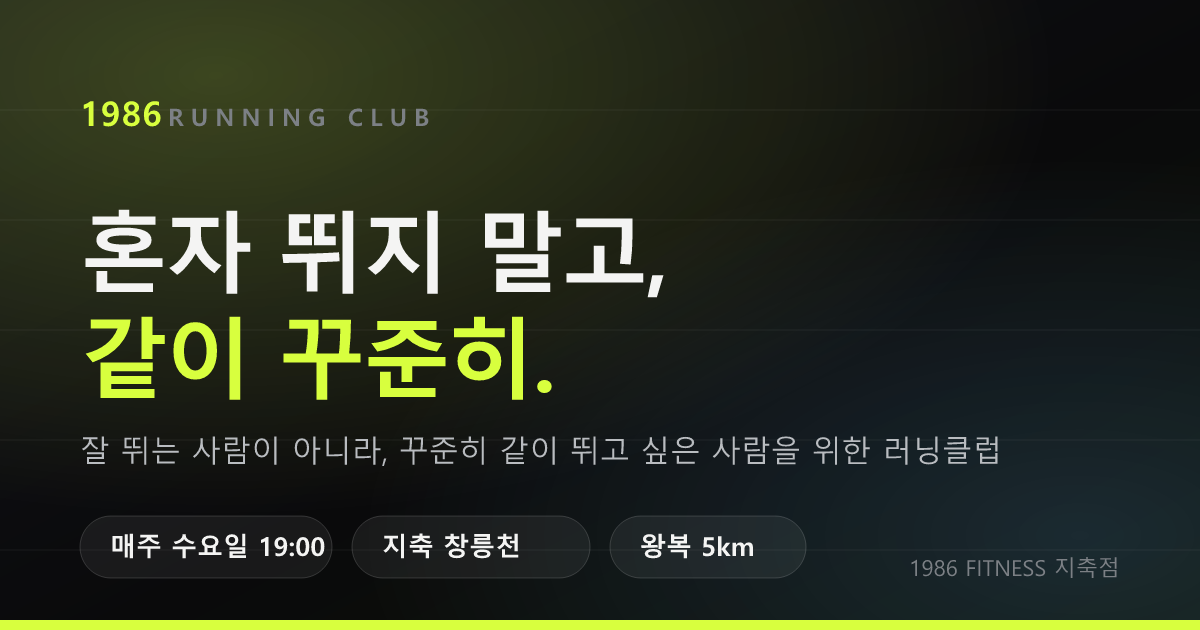
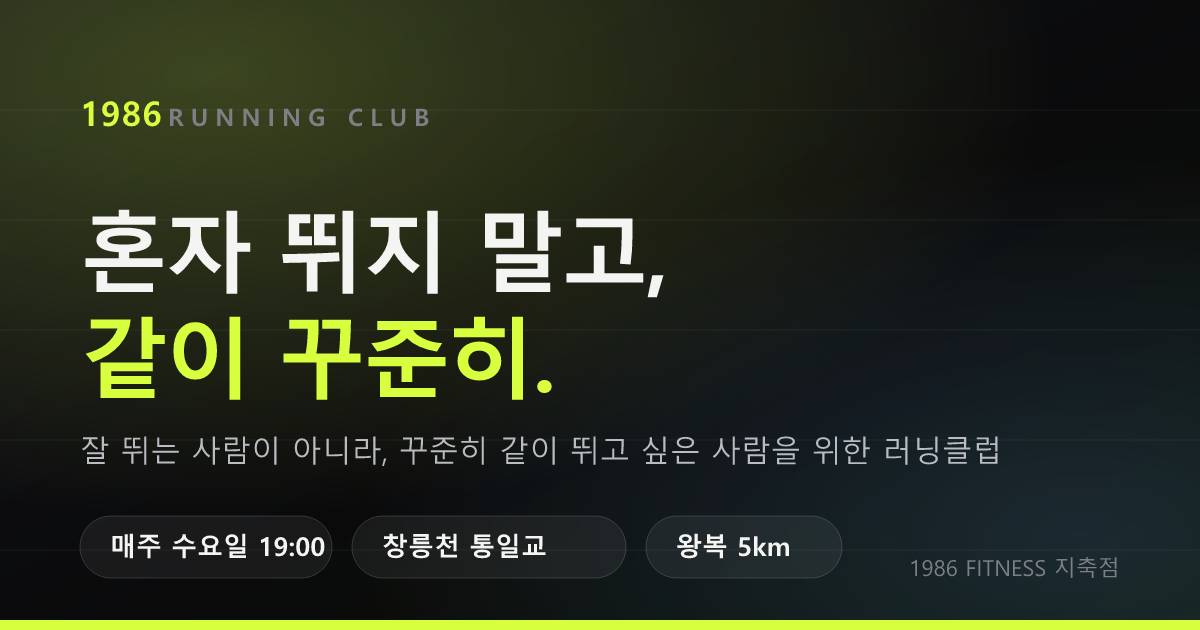
집결 장소 확정(창릉천 통일교)과 오픈채팅 링크 연결
- 찾아오는 길 섹션 추가: 지축역·통일로·창릉천·통일교를 그린 안내도(SVG)
  도보 경로와 러닝 코스 방향, 집결 정보 표 포함
- 카카오톡 오픈채팅 링크 연결 — 사이트 전 버튼에 반영
- 장소 표기를 창릉천 통일교 앞으로 통일 (히어로·FAQ·푸터·JSON-LD·OG)
- 내비게이션에 찾아오는 길 추가
- 운영 가이드: 오픈채팅 개설 완료 표시, 공지 템플릿에 집결 장소 반영

Changed region(s): [[0.3083, 0.8444, 0.4625, 0.9048], [0.5242, 0.8444, 0.6783, 0.9048]]

diff --git a/public/index.html b/public/index.html
@@ -4,19 +4,19 @@
 <meta charset="utf-8">
 <meta name="viewport" content="width=device-width, initial-scale=1, viewport-fit=cover">
 <title>1986 RUNNING CLUB · 혼자 뛰지 말고, 같이 꾸준히</title>
-<meta name="description" content="매주 수요일 저녁 7시, 지축 창릉천에서 함께 달리는 러닝 커뮤니티. 기록 경쟁 없이 걷뛰도 환영합니다. 1986 FITNESS 지축점 운영.">
+<meta name="description" content="매주 수요일 저녁 7시, 창릉천 통일교 앞에서 함께 달리는 러닝 커뮤니티. 기록 경쟁 없이 걷뛰도 환영합니다. 1986 FITNESS 지축점 운영.">
 <meta name="theme-color" content="#0a0a0b">
 <link rel="canonical" href="https://running-club-1986.pcbpcb1990.workers.dev/">
 <meta property="og:type" content="website">
 <meta property="og:site_name" content="1986 RUNNING CLUB">
 <meta property="og:title" content="1986 RUNNING CLUB · 혼자 뛰지 말고, 같이 꾸준히">
-<meta property="og:description" content="매주 수요일 19:00, 지축 창릉천에서 함께 달립니다. 걷뛰 가능 · 기록 경쟁 없음 · 전 연령 참여.">
+<meta property="og:description" content="매주 수요일 19:00, 창릉천 통일교 앞에서 함께 달립니다. 걷뛰 가능 · 기록 경쟁 없음 · 전 연령 참여.">
 <meta property="og:locale" content="ko_KR">
 <meta property="og:url" content="https://running-club-1986.pcbpcb1990.workers.dev/">
 <meta property="og:image" content="https://running-club-1986.pcbpcb1990.workers.dev/assets/og.png">
 <meta property="og:image:width" content="1200">
 <meta property="og:image:height" content="630">
-<meta property="og:image:alt" content="1986 RUNNING CLUB — 혼자 뛰지 말고, 같이 꾸준히. 매주 수요일 19:00 지축 창릉천">
+<meta property="og:image:alt" content="1986 RUNNING CLUB — 혼자 뛰지 말고, 같이 꾸준히. 매주 수요일 19:00 창릉천 통일교">
 <meta name="twitter:card" content="summary_large_image">
 <link rel="icon" href="/assets/favicon.svg" type="image/svg+xml">
 <link rel="preconnect" href="https://cdn.jsdelivr.net" crossorigin>
@@ -25,7 +25,7 @@
 <script>
 /* ── 링크 설정: 실제 주소가 생기면 이 부분만 바꾸면 사이트 전체에 반영됩니다 ── */
 window.SITE = {
-  kakaoOpenChat: "",                 // 예: "https://open.kakao.com/o/xxxxxxx"
+  kakaoOpenChat: "https://open.kakao.com/o/pxirsJLi",   // 오픈채팅방
   joinForm:      "",                 // 가입 신청 구글폼 주소
   missionForm:   "",                 // 러닝 인증 제출 구글폼 주소
   instagram:     "",                 // 예: "https://instagram.com/1986fitness"
@@ -41,7 +41,7 @@ window.SITE = {
       "@type": "SportsClub",
       "@id": "https://running-club-1986.pcbpcb1990.workers.dev/#club",
       "name": "1986 RUNNING CLUB",
-      "description": "1986 FITNESS 지축점이 운영하는 지축 지역 러닝 커뮤니티. 매주 수요일 19:00 창릉천에서 함께 달립니다. 기록 경쟁 없이 걷뛰도 환영합니다.",
+      "description": "1986 FITNESS 지축점이 운영하는 지축 지역 러닝 커뮤니티. 매주 수요일 19:00 창릉천 통일교 앞에서 함께 달립니다. 기록 경쟁 없이 걷뛰도 환영합니다.",
       "url": "https://running-club-1986.pcbpcb1990.workers.dev/",
       "image": "https://running-club-1986.pcbpcb1990.workers.dev/assets/og.png",
       "sport": "러닝",
@@ -82,7 +82,7 @@ window.SITE = {
       "organizer": { "@id": "https://running-club-1986.pcbpcb1990.workers.dev/#club" },
       "location": {
         "@type": "Place",
-        "name": "지축역 인근 창릉천",
+        "name": "창릉천 통일교 (지축역 인근)",
         "address": {
           "@type": "PostalAddress",
           "addressLocality": "고양시 덕양구",
@@ -115,6 +115,7 @@ window.SITE = {
     </a>
     <nav class="nav__links" aria-label="주요 메뉴">
       <a href="#weekly">수요일 러닝</a>
+      <a href="#location">찾아오는 길</a>
       <a href="#groups">페이스 그룹</a>
       <a href="#mission">러닝 미션</a>
       <a href="#board">러닝 보드</a>
@@ -127,6 +128,7 @@ window.SITE = {
   </div>
   <div class="mobile" id="mobileMenu" hidden>
     <a href="#weekly">수요일 러닝</a>
+    <a href="#location">찾아오는 길</a>
     <a href="#groups">페이스 그룹</a>
     <a href="#timeline">한 시간 흐름</a>
     <a href="#mission">러닝 미션</a>
@@ -158,7 +160,7 @@ window.SITE = {
     <div class="hero__meta reveal">
       <div class="meta"><span class="meta__k">매주</span><span class="meta__v">수요일</span></div>
       <div class="meta"><span class="meta__k">시간</span><span class="meta__v">19:00–20:00</span></div>
-      <div class="meta"><span class="meta__k">장소</span><span class="meta__v">지축역 인근 창릉천</span></div>
+      <div class="meta"><span class="meta__k">장소</span><span class="meta__v">창릉천 통일교</span></div>
       <div class="meta"><span class="meta__k">코스</span><span class="meta__v">왕복 약 5km</span></div>
     </div>
 
@@ -212,7 +214,7 @@ window.SITE = {
     <h2 class="h2 reveal">수요일 7시 = 창릉천</h2>
     <p class="lead reveal">
       매주 장소를 바꾸지 않습니다. 헬스장에 모였다가 이동하지도 않습니다.
-      창릉천 같은 자리에서 바로 만나, 습관이 되도록 합니다.
+      창릉천 통일교 앞 같은 자리에서 바로 만나, 습관이 되도록 합니다.
     </p>
 
     <div class="cards reveal">
@@ -223,7 +225,7 @@ window.SITE = {
       </article>
       <article class="card">
         <span class="card__ico" aria-hidden="true">📍</span>
-        <h3>지축역 인근 창릉천</h3>
+        <h3>창릉천 통일교 앞</h3>
         <p>매주 동일한 출발 지점에서 집결합니다. 1986 FITNESS 지축점은 운영 주체이자 브랜드 베이스입니다.</p>
         <a class="card__link js-map" href="#join" hidden>집결 장소 지도 보기 →</a>
       </article>
@@ -247,6 +249,154 @@ window.SITE = {
         <span>“상체 힘 빼고 편하게 가세요.”</span>
         <span>“호흡 괜찮으세요?”</span>
       </div>
+    </div>
+  </div>
+</section>
+
+<!-- ══ 찾아오는 길 ══ -->
+<section class="sec sec--map" id="location">
+  <div class="wrap">
+    <p class="kicker reveal">MEETING POINT</p>
+    <h2 class="h2 reveal">창릉천 통일교 앞에서 만납니다</h2>
+    <p class="lead reveal">
+      지축역에서 창릉천 방향으로 내려오면 통일로가 하천을 건너는 다리, 통일교가 나옵니다.
+      매주 같은 자리입니다. 헬스장에 모였다가 이동하지 않습니다.
+    </p>
+
+    <figure class="map reveal">
+      <svg class="map__svg" viewBox="0 0 800 470" role="img" aria-labelledby="mapTitle mapDesc">
+        <title id="mapTitle">1986 RUNNING CLUB 집결 장소 안내도</title>
+        <desc id="mapDesc">지축역에서 남서쪽으로 도보 약 7분, 통일로가 창릉천을 건너는 통일교 앞이 집결 지점입니다. 러닝 코스는 창릉천을 따라 왕복 약 5km입니다.</desc>
+
+        <defs>
+          <linearGradient id="water" x1="0" y1="0" x2="1" y2="1">
+            <stop offset="0%" stop-color="#1d3a57"/>
+            <stop offset="100%" stop-color="#16293c"/>
+          </linearGradient>
+          <marker id="arrow" viewBox="0 0 10 10" refX="7" refY="5" markerWidth="5" markerHeight="5" orient="auto-start-reverse">
+            <path d="M0 0 L10 5 L0 10 z" fill="#60a5fa"/>
+          </marker>
+          <filter id="pinShadow" x="-60%" y="-60%" width="220%" height="220%">
+            <feDropShadow dx="0" dy="4" stdDeviation="7" flood-color="#000" flood-opacity=".55"/>
+          </filter>
+        </defs>
+
+        <!-- 배경 블록(동네) -->
+        <g fill="#1c1f23" opacity=".85">
+          <rect x="392" y="126" width="86" height="58" rx="6"/>
+          <rect x="492" y="126" width="118" height="58" rx="6"/>
+          <rect x="624" y="126" width="96" height="58" rx="6"/>
+          <rect x="424" y="198" width="120" height="64" rx="6"/>
+          <rect x="558" y="198" width="94" height="64" rx="6"/>
+          <rect x="666" y="198" width="54" height="64" rx="6"/>
+          <rect x="452" y="276" width="104" height="66" rx="6"/>
+          <rect x="570" y="276" width="150" height="66" rx="6"/>
+          <rect x="512" y="356" width="90" height="60" rx="6"/>
+          <rect x="616" y="356" width="104" height="60" rx="6"/>
+        </g>
+
+        <!-- 창릉천 -->
+        <path d="M -30 60 C 90 130, 150 200, 250 268 S 420 386, 560 470"
+              stroke="url(#water)" stroke-width="52" fill="none" stroke-linecap="round"/>
+        <path d="M -30 60 C 90 130, 150 200, 250 268 S 420 386, 560 470"
+              stroke="#60a5fa" stroke-width="1.5" fill="none" opacity=".45"/>
+
+        <!-- 하천 산책로(러닝 코스) -->
+        <path id="coursePath" d="M -20 96 C 100 164, 162 232, 262 300 S 430 416, 570 470"
+              stroke="#d8ff3e" stroke-width="4" fill="none" opacity=".8"
+              stroke-dasharray="1 11" stroke-linecap="round"/>
+
+        <!-- 통일로 -->
+        <path d="M 630 12 C 560 90, 430 180, 300 262 C 236 302, 176 366, 130 440"
+              stroke="#31353b" stroke-width="21" fill="none" stroke-linecap="round"/>
+        <path d="M 630 12 C 560 90, 430 180, 300 262 C 236 302, 176 366, 130 440"
+              stroke="#6b7079" stroke-width="1.5" fill="none" stroke-dasharray="9 13"/>
+
+        <!-- 통일교 (다리) -->
+        <g transform="translate(268,286) rotate(-33)">
+          <rect x="-44" y="-15" width="88" height="30" rx="4" fill="#454a52" stroke="#8b9098" stroke-width="1.5"/>
+          <line x1="-44" y1="-15" x2="44" y2="-15" stroke="#a8aeb6" stroke-width="2.5"/>
+          <line x1="-44" y1="15" x2="44" y2="15" stroke="#a8aeb6" stroke-width="2.5"/>
+        </g>
+
+        <!-- 3호선 -->
+        <rect x="330" y="46" width="500" height="26" rx="5" fill="#f97316" opacity=".92"/>
+        <text x="360" y="64" class="mp-rail">3호선</text>
+
+        <!-- 지축역 -->
+        <g transform="translate(560,59)">
+          <circle r="15" fill="#0a0a0b" stroke="#f97316" stroke-width="5"/>
+          <text x="0" y="-28" class="mp-place" text-anchor="middle">지축역</text>
+        </g>
+
+        <!-- 도보 경로 -->
+        <path d="M 556 84 C 498 132, 400 200, 300 262"
+              stroke="#d8ff3e" stroke-width="3.5" fill="none"
+              stroke-dasharray="9 10" stroke-linecap="round"/>
+        <g transform="translate(452,132) rotate(-33)">
+          <rect x="-64" y="-16" width="128" height="30" rx="15" fill="#0a0a0b" stroke="#d8ff3e" stroke-width="1.5"/>
+          <text x="0" y="5" class="mp-walk" text-anchor="middle">도보 약 7분</text>
+        </g>
+
+        <!-- 집결 지점 핀 -->
+        <g transform="translate(268,286)" filter="url(#pinShadow)">
+          <path d="M0 6 c-17 -22 -27 -34 -27 -48 a27 27 0 1 1 54 0 c0 14 -10 26 -27 48 z"
+                transform="translate(0,-52)" fill="#d8ff3e"/>
+          <circle cx="0" cy="-94" r="10" fill="#101300"/>
+        </g>
+        <g transform="translate(268,286)">
+          <rect x="-92" y="-166" width="184" height="52" rx="10" fill="#d8ff3e"/>
+          <text x="0" y="-144" class="mp-pin-1" text-anchor="middle">집결 지점</text>
+          <text x="0" y="-125" class="mp-pin-2" text-anchor="middle">매주 수요일 19:00</text>
+        </g>
+
+        <!-- 라벨 -->
+        <text x="86" y="238" class="mp-water" transform="rotate(37 86 238)">창 릉 천</text>
+        <text x="312" y="330" class="mp-place">통일교</text>
+        <text x="104" y="432" class="mp-road">통일로</text>
+
+        <!-- 코스 안내 -->
+        <g transform="translate(452,404) rotate(35)">
+          <line x1="-86" y1="0" x2="86" y2="0" stroke="#7fb4f0" stroke-width="2.5"
+                marker-start="url(#arrow)" marker-end="url(#arrow)"/>
+          <text x="0" y="-13" class="mp-course" text-anchor="middle">하천 따라 왕복 약 5km</text>
+        </g>
+
+        <!-- 방위 -->
+        <g transform="translate(752,404)" opacity=".65">
+          <circle r="20" fill="none" stroke="#7c8085" stroke-width="1.5"/>
+          <path d="M0 -13 L6 6 L0 1 L-6 6 z" fill="#f4f4f3"/>
+          <text x="0" y="-24" class="mp-n" text-anchor="middle">N</text>
+        </g>
+      </svg>
+
+      <figcaption class="map__cap">
+        위치 안내용 그림 지도입니다. 실제 축척·거리와는 차이가 있습니다.
+      </figcaption>
+    </figure>
+
+    <div class="mapinfo reveal">
+      <div class="mapinfo__row">
+        <span class="mapinfo__k">집결 지점</span>
+        <span class="mapinfo__v">창릉천 통일교 앞 <em>(경기 고양시 덕양구 지축동)</em></span>
+      </div>
+      <div class="mapinfo__row">
+        <span class="mapinfo__k">오는 길</span>
+        <span class="mapinfo__v">3호선 지축역에서 창릉천 방향으로 도보 약 7분</span>
+      </div>
+      <div class="mapinfo__row">
+        <span class="mapinfo__k">시간</span>
+        <span class="mapinfo__v">매주 수요일 19:00 집결 · 19:05 워밍업 · 19:10 출발</span>
+      </div>
+      <div class="mapinfo__row">
+        <span class="mapinfo__k">처음이라면</span>
+        <span class="mapinfo__v">오픈채팅방에 “처음 왔어요” 한마디 남겨주시면 찾아뵙겠습니다</span>
+      </div>
+    </div>
+
+    <div class="mapcta reveal">
+      <a class="btn btn--kakao js-kakao" href="#join">오픈채팅방에서 위치 확인하기</a>
+      <a class="btn btn--ghost js-map" href="#join" hidden>지도 앱으로 열기</a>
     </div>
   </div>
 </section>
@@ -477,7 +627,7 @@ window.SITE = {
       <details><summary>5km를 못 뛰는데 참여해도 되나요?</summary><p>네. 5km 완주는 의무가 아닙니다. 1~2km 뛰고 돌아오셔도 되고, 걷다 뛰다 하셔도 됩니다. EASY 그룹은 애초에 걷뛰를 전제로 운영합니다.</p></details>
       <details><summary>헬스장 회원이 아니어도 가입할 수 있나요?</summary><p>가능합니다. RUNNING CLUB은 헬스 회원권과 별도로 운영합니다. 1986 FITNESS 회원이시면 월 9,900원으로 할인됩니다.</p></details>
       <details><summary>나이 제한이 있나요?</summary><p>없습니다. 10대 후반부터 60대 이상까지 참여하실 수 있고, 나이가 아니라 체력과 페이스에 따라 그룹을 나눕니다.</p></details>
-      <details><summary>어디로 몇 시까지 가면 되나요?</summary><p>매주 수요일 19:00, 지축역 인근 창릉천 지정 장소입니다. 헬스장에 모였다가 이동하지 않고 현장에서 바로 만납니다. 정확한 집결 지점은 가입 후 오픈채팅 공지로 안내드립니다.</p></details>
+      <details><summary>어디로 몇 시까지 가면 되나요?</summary><p>매주 수요일 19:00, 창릉천 통일교 앞입니다. 지축역에서 창릉천 방향으로 도보 약 7분이고, 통일로가 하천을 건너는 다리 앞이 집결 지점입니다. 헬스장에 모였다가 이동하지 않고 현장에서 바로 만납니다. 위치는 <a href="#location">찾아오는 길</a>에서 지도로 확인하실 수 있습니다.</p></details>
       <details><summary>비 오는 날은 어떻게 하나요?</summary><p>기상 상황에 따라 일정을 변경하거나 취소합니다. 당일 오픈채팅 공지로 안내드립니다.</p></details>
       <details><summary>러닝 인증은 어떤 앱을 써야 하나요?</summary><p>앱 제한이 없습니다. 삼성헬스, 애플 운동, 스트라바, 나이키런클럽 등 거리와 날짜가 보이는 기록 화면이면 됩니다. 1km 이상이면 1회로 인정됩니다.</p></details>
       <details><summary>한 달에 몇 번 참여할 수 있나요?</summary><p>매주 수요일이므로 기본 월 4회, 5주가 있는 달에는 5회까지 참여하실 수 있습니다.</p></details>
@@ -512,7 +662,7 @@ window.SITE = {
     </div>
     <ul class="foot__meta">
       <li>매주 수요일 19:00–20:00</li>
-      <li>지축역 인근 창릉천</li>
+      <li>창릉천 통일교 앞 (지축역 도보 7분)</li>
       <li class="js-phone" hidden></li>
     </ul>
     <ul class="foot__links" id="footLinks"></ul>

diff --git a/public/assets/css/style.css b/public/assets/css/style.css
@@ -180,6 +180,35 @@ ul,ol{margin:0;padding:0;list-style:none}
   background:rgba(255,255,255,.06);font-size:15px;color:var(--ink-2);
 }
 
+/* ── 찾아오는 길 ──────────────────────────────────────── */
+.sec--map{background:
+  radial-gradient(60% 55% at 22% 0%,rgba(96,165,250,.10),transparent 62%),
+  radial-gradient(50% 50% at 85% 90%,rgba(216,255,62,.07),transparent 60%),var(--bg)}
+.map{margin:40px 0 0;padding:0}
+.map__svg{
+  display:block;width:100%;height:auto;border-radius:var(--r-lg);
+  background:#0d0f11;border:1px solid var(--line);
+}
+.map__svg text{font-family:var(--font);fill:#f4f4f3}
+.mp-rail{font-size:14px;font-weight:700;fill:#1a1206;letter-spacing:.04em}
+.mp-place{font-size:19px;font-weight:800;fill:#f4f4f3;letter-spacing:-.01em;paint-order:stroke;stroke:#0d0f11;stroke-width:5px;stroke-linejoin:round}
+.mp-water{font-size:17px;font-weight:700;fill:#7fb4f0;letter-spacing:.16em}
+.mp-road{font-size:14px;font-weight:700;fill:#a8aeb6;letter-spacing:.06em;paint-order:stroke;stroke:#0d0f11;stroke-width:5px;stroke-linejoin:round}
+.mp-walk{font-size:14px;font-weight:700;fill:#d8ff3e}
+.mp-course{font-size:14px;font-weight:600;fill:#9cc7f5;paint-order:stroke;stroke:#0d0f11;stroke-width:5px;stroke-linejoin:round}
+.mp-pin-1{font-size:19px;font-weight:800;fill:#101300;letter-spacing:-.01em}
+.mp-pin-2{font-size:13px;font-weight:700;fill:#101300;opacity:.72}
+.mp-n{font-size:12px;font-weight:700;fill:#b9bcc0}
+.map__cap{margin-top:12px;font-size:13px;color:var(--ink-3)}
+
+.mapinfo{margin-top:28px;border:1px solid var(--line);border-radius:var(--r-lg);background:var(--surface);overflow:hidden}
+.mapinfo__row{display:grid;grid-template-columns:130px 1fr;gap:16px;padding:16px 22px;border-bottom:1px solid var(--line)}
+.mapinfo__row:last-child{border-bottom:0}
+.mapinfo__k{font-size:13px;font-weight:700;letter-spacing:.06em;color:var(--volt)}
+.mapinfo__v{font-size:16px;color:var(--ink)}
+.mapinfo__v em{font-style:normal;color:var(--ink-3);font-size:14px}
+.mapcta{display:flex;flex-wrap:wrap;gap:12px;margin-top:24px}
+
 /* ── 페이스 그룹 ──────────────────────────────────────── */
 .groups{display:grid;grid-template-columns:repeat(3,1fr);gap:16px;margin-top:40px}
 .group{
@@ -352,6 +381,8 @@ ul,ol{margin:0;padding:0;list-style:none}
 }
 @media (max-width:640px){
   body{font-size:16px}
+  .mapinfo__row{grid-template-columns:1fr;gap:4px;padding:14px 18px}
+  .mapcta .btn{width:100%}
   .hero{padding:112px 0 68px}
   .sec{padding:72px 0}
   .sec--join{padding:84px 0}

diff --git a/public/assets/js/main.js b/public/assets/js/main.js
@@ -202,7 +202,7 @@
       });
     }, { rootMargin: '-45% 0px -50% 0px' });
 
-    ['weekly', 'groups', 'mission', 'board', 'price'].forEach(function (id) {
+    ['weekly', 'location', 'groups', 'mission', 'board', 'price'].forEach(function (id) {
       var el = document.getElementById(id);
       if (el) spy.observe(el);
     });

diff --git a/docs/운영-가이드.md b/docs/운영-가이드.md
@@ -1,13 +1,20 @@
 # 1986 RUNNING CLUB 운영 가이드
 
-사이트는 배포됐지만 카카오톡 오픈채팅방과 구글폼은 계정 로그인이 필요해 직접 만드셔야 합니다.
-이 문서는 그 세 가지를 만드는 순서와, 그대로 복사해 쓸 수 있는 내용을 담았습니다.
+사이트는 배포됐고 오픈채팅방도 개설됐습니다. 남은 것은 구글폼 2개와 시트 집계입니다.
+이 문서는 만드는 순서와, 그대로 복사해 쓸 수 있는 내용을 담았습니다.
 
-순서는 **① 오픈채팅방 → ② 가입 폼 → ③ 인증 폼 → ④ 시트 집계 → ⑤ 사이트에 주소 넣기** 입니다.
+순서는 **① 오픈채팅방 ✅ → ② 가입 폼 → ③ 인증 폼 → ④ 시트 집계 → ⑤ 사이트에 주소 넣기** 입니다.
+
+집결 지점은 **창릉천 통일교 앞**(지축역에서 창릉천 방향 도보 약 7분)으로 확정했습니다.
 
 ---
 
-## ① 카카오톡 오픈채팅방
+## ① 카카오톡 오픈채팅방 ✅ 개설 완료
+
+> **방 주소** — https://open.kakao.com/o/pxirsJLi
+> 사이트의 오픈채팅 버튼에 이미 연결되어 있습니다.
+>
+> 아래 설정과 공지는 방을 다듬을 때 참고하세요.
 
 카카오톡 → 오픈채팅 탭 → 우측 상단 `+` → **그룹 채팅방**
 
@@ -15,7 +22,7 @@
 |---|---|
 | 방 이름 | `1986 RUNNING CLUB · 지축 러닝` |
 | 해시태그 | `지축러닝` `창릉천` `러닝크루` `고양러닝` `초보러닝` |
-| 소개 | 매주 수요일 19:00, 지축 창릉천에서 같이 뜁니다. 걷뛰 가능, 기록 경쟁 없습니다. |
+| 소개 | 매주 수요일 19:00, 창릉천 통일교 앞에서 같이 뜁니다. 걷뛰 가능, 기록 경쟁 없습니다. |
 | 참여 방식 | 처음에는 자유 입장으로 두고, 인원이 늘면 참여코드 설정 |
 
 만들고 나면 **방 링크 복사** → 5번 단계에서 사이트에 넣습니다.
@@ -28,7 +35,8 @@
 혼자 뛰지 말고, 같이 꾸준히.
 
 📅 매주 수요일 19:00 ~ 20:00
-📍 지축역 인근 창릉천 (매주 같은 자리)
+📍 창릉천 통일교 앞 (매주 같은 자리)
+   지축역에서 창릉천 방향 도보 약 7분
 🏃 왕복 약 5km · 걷뛰 가능
 
 ▪ 그룹
@@ -154,11 +162,11 @@ G1 셀을 복사해서 [`public/data/board.js`](../public/data/board.js) 의 `me
 
 ```js
 window.SITE = {
-  kakaoOpenChat: "https://open.kakao.com/o/...",   // ① 오픈채팅 링크
+  kakaoOpenChat: "https://open.kakao.com/o/pxirsJLi",  // ① 완료
   joinForm:      "https://forms.gle/...",          // ② 가입 신청 폼
   missionForm:   "https://forms.gle/...",          // ③ 러닝 인증 폼
   instagram:     "",
-  naverMap:      "",                                // 창릉천 집결 지점 (네이버 지도 공유 링크)
+  naverMap:      "",                                // 통일교 집결 지점 (네이버 지도 공유 링크)
   phone:         ""                                 // 헬스장 전화번호
 };
 ```
@@ -178,7 +186,7 @@ npx wrangler deploy
 ```
 🏃 내일 수요일 19:00 창릉천에서 뜁니다.
 
-📍 [집결 장소]
+📍 창릉천 통일교 앞
 🕖 19:00 집결 / 19:05 워밍업 / 19:10 출발
 
 처음 오시는 분 편하게 오세요.
